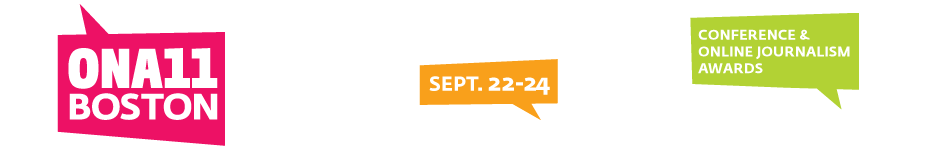
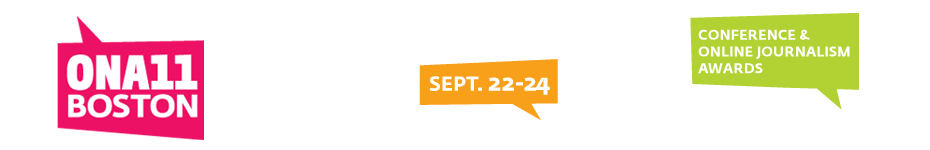
New header image

Changed region(s): [[0.0624, 0.0533, 0.2495, 0.9867]]

diff --git a/header.php b/header.php
@@ -31,10 +31,6 @@
 
 	<div class="header">		
 		<div class="wrap">
-			<?php if ( is_home() ): ?>
-			<a href="<?php bloginfo('url') ?>/"><img height="331px" src="<?php bloginfo('template_directory'); ?>/images/header_h927.jpg" /></a>
-			<?php else: ?>
 			<a href="<?php bloginfo('url') ?>/"><img height="150px" src="<?php bloginfo('template_directory'); ?>/images/header_small_h930.png" /></a>	
-			<?php endif; ?>
 		</div>
 	</div><!--	#header -->
